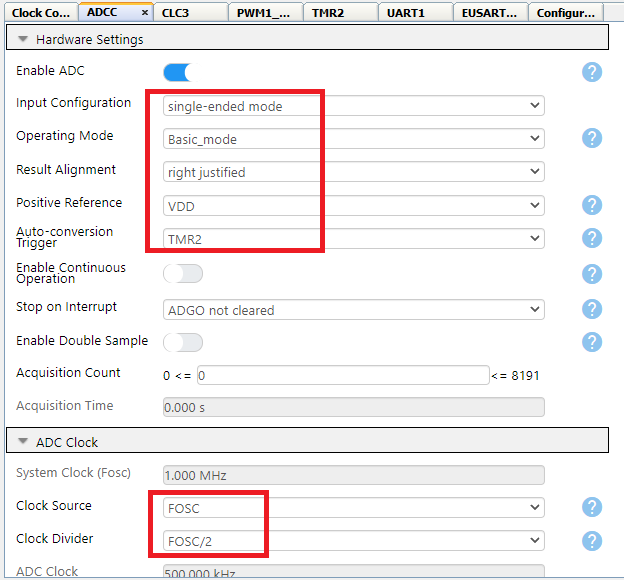
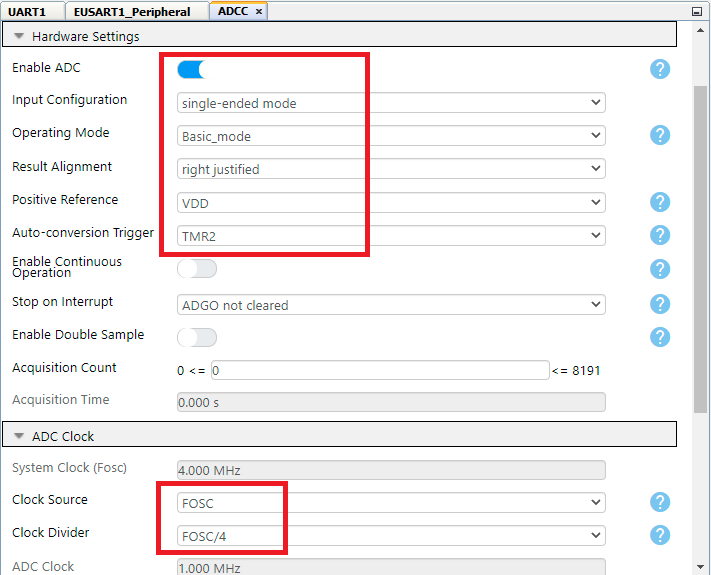
MPAE-14822 : Updated Firmware

Changed region(s): [[0.0, 0.0, 1.0, 1.0]]

diff --git a/pic16f18146-dust-sensor-interface-mplab-mcc.X/mcc_generated_files/timer/tmr2.h b/pic16f18146-dust-sensor-interface-mplab-mcc.X/mcc_generated_files/timer/tmr2.h
@@ -5,7 +5,7 @@
  *  
  * @defgroup tmr2 TMR2
  *
- * @brief This is the generated header file for the TMR2 module.
+ * @brief API Prototypes and other data types for the TMR2 module.
  *
  * @version TMR2 Driver Version 3.0.1
  */
@@ -34,11 +34,6 @@
 
 #ifndef TMR2_H
 #define TMR2_H
-
-/**
- * @brief This file contains API prototypes and other data types for TMR2 module.
- * @{
- */
 
 #include <stdint.h>
 #include <stdbool.h>
@@ -267,8 +262,7 @@ typedef enum
 
 /**
  * @ingroup tmr2
- * @brief This API initializes the TMR2 module.
- *        This routine must be called before any other TMR2 routines.
+ * @brief Initializes the TMR2 module. This routine must be called before any other TMR2 routines.
  * @param none
  * @return none
  */
@@ -277,8 +271,7 @@ typedef enum
 /**
  * @ingroup tmr2
  * @brief Configures the Hardware Limit Timer mode.
- *        Writes the T2HLTbits.MODE bits.
- *        TMR2 should be initialized with Timer2_Initialize after calling this API.
+ * @pre TMR2 should be initialized with Timer2_Initialize after calling this API.
  * @param mode - Value to write into T2HLTbits.MODE bits.
  * @return none
  */
@@ -287,8 +280,7 @@ void Timer2_ModeSet(Timer2_HLT_MODE mode);
 /**
  * @ingroup tmr2
  * @brief Configures the HLT external reset source.
- *        Writes the T2RSTbits.RSEL bits.
- *        TMR2 should be initialized with Timer2_Initialize after calling this API.
+ * @pre TMR2 should be initialized with Timer2_Initialize after calling this API.
  * @param reset - Value to write into T2RSTbits.RSEL bits.
  * @return none
  */
@@ -296,8 +288,8 @@ void Timer2_ExtResetSourceSet(Timer2_HLT_EXT_RESET_SOURCE reset);
 
 /**
  * @ingroup tmr2
- * @brief This function starts TMR2.
- *        TMR2 should be initialized with Timer2_Initialize() before calling this API.
+ * @brief Starts TMR2.
+ * @pre TMR2 should be initialized with Timer2_Initialize() before calling this API.
  * @param none
  * @return none
  */
@@ -305,8 +297,8 @@ void Timer2_Start(void);
 
 /**
  * @ingroup tmr2
- * @brief This function stops TMR2.
- *        TMR2 should be initialized with Timer2_Initialize() before calling this API.
+ * @brief Stops TMR2.
+ * @pre TMR2 should be initialized with Timer2_Initialize() before calling this API.
  * @param none
  * @return none
  */
@@ -314,8 +306,8 @@ void Timer2_Stop(void);
 
 /**
  * @ingroup tmr2
- * @brief This function reads the 8 bits from TMR2 register.
- *        TMR2 should be initialized with Timer2_Initialize() before calling this API.
+ * @brief Reads the 8 bits from TMR2 register.
+ * @pre TMR2 should be initialized with Timer2_Initialize() before calling this API.
  * @param none.
  * @return 8-bit data from TMR2 register.
  */
@@ -323,8 +315,8 @@ uint8_t Timer2_Read(void);
 
 /**
  * @ingroup tmr2
- * @brief This function writes 8-bit value to TMR2 register.
- *        TMR2 should be initialized with Timer2_Initialize() before calling this API.
+ * @brief Writes 8-bit value to TMR2 register.
+ * @pre TMR2 should be initialized with Timer2_Initialize() before calling this API.
  * @param 8-bit value to be written to TMR2 register.
  * @return none
  */
@@ -332,8 +324,8 @@ void Timer2_Write(uint8_t timerVal);
 
 /**
  * @ingroup tmr2
- * @brief This function loads 8 bit value to PR2H register.
- *        TMR2 should be initialized with Timer2_Initialize() before calling this API.
+ * @brief Loads 8-bit value to PR2H register.
+ * @pre TMR2 should be initialized with Timer2_Initialize() before calling this API.
  * @param 8-bit value to be written to PR2 register.
  * @return none
  */
@@ -349,7 +341,7 @@ void Timer2_OverflowCallbackRegister(void (* InterruptHandler)(void));
 
 /**
  * @ingroup tmr2
- * @brief This function performs tasks to be executed on timer overflow event
+ * @brief Performs tasks to be executed on timer overflow event.
  * @param none
  * @return none
  */

diff --git a/pic16f18146-dust-sensor-interface-mplab-mcc.X/main.c b/pic16f18146-dust-sensor-interface-mplab-mcc.X/main.c
@@ -33,7 +33,7 @@
 #include "mcc_generated_files/system/system.h"
 
 /***********************************
- Analog channel: RC2
+ Analog (Dust sensor output) channel: RC2
  CLC3 o/p (TMR2 output): RC6  -- for testing purpose
  PWM1 o/p : RC5
  
@@ -52,10 +52,10 @@
 float ConvertAdcCountToVoltage(uint16_t adcResult);
 float CalculateDustDensity(float voltage); 
 
-static float voltageNoDust = 0.6F; // Typical output voltage at no dust in volt. 
+static float voltageNoDust = 0.6F; //typical output voltage at no dust in volt. 
 
 //sensitivity needs to be adjusted as per calibration for accurate result
-static const float sensitivity = 0.5F; // Typical sensitivity of dust sensor in volt per 100ug/m3
+static const float sensitivity = 0.5F; //typical sensitivity of dust sensor in volt per 100ug/m3
 
 int main(void)
 {
@@ -81,7 +81,7 @@ int main(void)
     // Disable the Peripheral Interrupts 
     //INTERRUPT_PeripheralInterruptDisable(); 
     
-    printf("\n\t\t**** Dust (PM) Sensor Interface using PIC16F17146 ****\n\n\r");
+    printf("\n\t\t**** Dust (PM) Sensor Interface using PIC16F18146 ****\n\n\r");
     
     //select Dust Sensor as ADC channel
     ADPCH = DustSensor_Vo; 
@@ -111,7 +111,7 @@ float ConvertAdcCountToVoltage(uint16_t adcResult)
 {
     float voltage = 0;
     
-    // Compute the output voltage in Volts.
+    //compute the output voltage in Volts.
     voltage = (float)(adcResult * ADC_REFERENCE_VOLATGE);     
     voltage = voltage / ADC_HIGHEST_COUNT;
     

diff --git a/pic16f18146-dust-sensor-interface-mplab-mcc.X/mcc_generated_files/system/pins.h b/pic16f18146-dust-sensor-interface-mplab-mcc.X/mcc_generated_files/system/pins.h
@@ -49,26 +49,6 @@
 #define PULL_UP_ENABLED      1
 #define PULL_UP_DISABLED     0
 
-// get/set IO_RA5 aliases
-#define IO_RA5_TRIS                 TRISAbits.TRISA5
-#define IO_RA5_LAT                  LATAbits.LATA5
-#define IO_RA5_PORT                 PORTAbits.RA5
-#define IO_RA5_WPU                  WPUAbits.WPUA5
-#define IO_RA5_OD                   ODCONAbits.ODCA5
-#define IO_RA5_ANS                  ANSELAbits.ANSA5
-#define IO_RA5_SetHigh()            do { LATAbits.LATA5 = 1; } while(0)
-#define IO_RA5_SetLow()             do { LATAbits.LATA5 = 0; } while(0)
-#define IO_RA5_Toggle()             do { LATAbits.LATA5 = ~LATAbits.LATA5; } while(0)
-#define IO_RA5_GetValue()           PORTAbits.RA5
-#define IO_RA5_SetDigitalInput()    do { TRISAbits.TRISA5 = 1; } while(0)
-#define IO_RA5_SetDigitalOutput()   do { TRISAbits.TRISA5 = 0; } while(0)
-#define IO_RA5_SetPullup()          do { WPUAbits.WPUA5 = 1; } while(0)
-#define IO_RA5_ResetPullup()        do { WPUAbits.WPUA5 = 0; } while(0)
-#define IO_RA5_SetPushPull()        do { ODCONAbits.ODCA5 = 0; } while(0)
-#define IO_RA5_SetOpenDrain()       do { ODCONAbits.ODCA5 = 1; } while(0)
-#define IO_RA5_SetAnalogMode()      do { ANSELAbits.ANSA5 = 1; } while(0)
-#define IO_RA5_SetDigitalMode()     do { ANSELAbits.ANSA5 = 0; } while(0)
-
 // get/set IO_RB5 aliases
 #define IO_RB5_TRIS                 TRISBbits.TRISB5
 #define IO_RB5_LAT                  LATBbits.LATB5

diff --git a/pic16f18146-dust-sensor-interface-mplab-mcc.X/mcc_generated_files/system/src/config_bits.c b/pic16f18146-dust-sensor-interface-mplab-mcc.X/mcc_generated_files/system/src/config_bits.c
@@ -33,8 +33,8 @@
 
 // Configuration bits: selected in the GUI
 //CONFIG1
-#pragma config FEXTOSC = ECH    // External Oscillator Selection bits->EC (external clock) above 16 MHz
-#pragma config RSTOSC = EXTOSC    // Reset Oscillator Selection bits->EXTOSC operating per FEXTOSC bits
+#pragma config FEXTOSC = OFF    // External Oscillator Selection bits->Oscillator not enabled
+#pragma config RSTOSC = HFINTOSC_1MHz    // Reset Oscillator Selection bits->HFINTOSC (1MHz)
 #pragma config CLKOUTEN = OFF    // Clock Out Enable bit->CLKOUT function is disabled; i/o or oscillator function on OSC2
 #pragma config CSWEN = ON    // Clock Switch Enable bit->Writing to NOSC and NDIV is allowed
 #pragma config VDDAR = HI    // VDD Range Analog Calibration Selection bit->Internal analog systems are calibrated for operation between VDD = 2.3 - 5.5V

diff --git a/pic16f18146-dust-sensor-interface-mplab-mcc.X/mcc_generated_files/system/src/pins.c b/pic16f18146-dust-sensor-interface-mplab-mcc.X/mcc_generated_files/system/src/pins.c
@@ -54,7 +54,7 @@ void PIN_MANAGER_Initialize(void)
     /**
     ANSELx registers
     */
-    ANSELA = 0x17;
+    ANSELA = 0x37;
     ANSELB = 0x50;
     ANSELC = 0xDF;
 
@@ -93,12 +93,6 @@ void PIN_MANAGER_Initialize(void)
     /**
     PPS registers
     */
-    CLCIN0PPS = 0x5; //RA5->CLC3:CLCIN0;
-    PWM1ERSPPS = 0x5; //RA5->PWM1_16BIT:PWM1ERS;
-    PWMIN0PPS = 0x5; //RA5->PWM1_16BIT:PWMIN0;
-    PWMIN1PPS = 0x5; //RA5->PWM1_16BIT:PWMIN1;
-    ADACTPPS = 0x5; //RA5->ADCC:ADACT;
-    T2INPPS = 0x5; //RA5->TMR2:T2IN;
     RX1PPS = 0xD; //RB5->EUSART1:RX1;
     RC6PPS = 0x03;  //RC6->CLC3:CLC3OUT;
     RC5PPS = 0x0B;  //RC5->PWM1_16BIT:PWM11;

diff --git a/pic16f18146-dust-sensor-interface-mplab-mcc.X/mcc_generated_files/system/src/clock.c b/pic16f18146-dust-sensor-interface-mplab-mcc.X/mcc_generated_files/system/src/clock.c
@@ -37,8 +37,8 @@
 void CLOCK_Initialize(void)
 {
     // Set the CLOCK CONTROL module to the options selected in the user interface.
-    // NDIV 4; NOSC HFINTOSC; 
-    OSCCON1 = 0x62;
+    // NDIV 1; NOSC HFINTOSC; 
+    OSCCON1 = 0x60;
     // SOSCPWR High power; CSWHOLD may proceed; 
     OSCCON3 = 0x40;
     // EXTOEN disabled; HFOEN disabled; MFOEN disabled; LFOEN disabled; SOSCEN disabled; ADOEN disabled; 

diff --git a/pic16f18146-dust-sensor-interface-mplab-mcc.X/mcc_generated_files/timer/timer_interface.h b/pic16f18146-dust-sensor-interface-mplab-mcc.X/mcc_generated_files/timer/timer_interface.h
@@ -1,5 +1,5 @@
 /** 
- * TMR2 Generated Driver API Header File
+ * TMR Generated Driver API Header File
  *
  * @file timer_interface.h
  *  
@@ -38,8 +38,8 @@
  * @brief This file contains API prototypes and other data types for Timer interface.
  * @{
  */
-
-#include<stddef.h>
+ 
+ #include<stddef.h>
         
 /**
  @ingroup timer_interface

diff --git a/pic16f18146-dust-sensor-interface-mplab-mcc.X/mcc_generated_files/uart/src/eusart1.c b/pic16f18146-dust-sensor-interface-mplab-mcc.X/mcc_generated_files/uart/src/eusart1.c
@@ -100,8 +100,8 @@ void EUSART1_Initialize(void)
     RC1STA = 0x90; 
     //TX9D 0x0; BRGH hi_speed; SENDB sync_break_complete; SYNC asynchronous; TXEN enabled; TX9 8-bit; CSRC client; 
     TX1STA = 0x26; 
-    //SPBRGL 25; 
-    SP1BRGL = 0x19; 
+    //SPBRGL 103; 
+    SP1BRGL = 0x67; 
     //SPBRGH 0; 
     SP1BRGH = 0x0; 
 

diff --git a/pic16f18146-dust-sensor-interface-mplab-mcc.X/mcc_generated_files/adcc/src/adcc.c b/pic16f18146-dust-sensor-interface-mplab-mcc.X/mcc_generated_files/adcc/src/adcc.c
@@ -93,8 +93,8 @@ void ADCC_Initialize(void)
     ADREF = 0x0;
     //ADACT TMR2; 
     ADACT = 0x4;
-    //ADCCS FOSC/2; 
-    ADCLK = 0x0;
+    //ADCCS FOSC/4; 
+    ADCLK = 0x1;
     //GO_nDONE undefined; ADIC single-ended mode; ADFM right justified; ADCS FOSC; ADCONT disabled; ADON enabled; 
     ADCON0 = 0x84;
     

diff --git a/pic16f18146-dust-sensor-interface-mplab-mcc.X/mcc_generated_files/timer/src/tmr2.c b/pic16f18146-dust-sensor-interface-mplab-mcc.X/mcc_generated_files/timer/src/tmr2.c
@@ -5,7 +5,7 @@
  * 
  * @ingroup  tmr2
  * 
- * @brief This is the generated driver implementation file for the TMR2 module.
+ * @brief API implementations for the TMR2 module.
  *
  * @version TMR2 Driver Version 3.0.1
  */

diff --git a/pic16f18146-dust-sensor-interface-mplab-mcc.X/mcc_generated_files/pwm/src/pwm1_16bit.c b/pic16f18146-dust-sensor-interface-mplab-mcc.X/mcc_generated_files/pwm/src/pwm1_16bit.c
@@ -7,7 +7,7 @@
   *
   * @brief This file contains the driver code for PWM1_16BIT module.
   *
-  * version PWM1_16BIT Driver Version <!--Use existing driver version-->
+  * version PWM1_16BIT Driver Version 1.0.1
 */
 
 /*

diff --git a/pic16f18146-dust-sensor-interface-mplab-mcc.X/mcc_generated_files/pwm/pwm1_16bit.h b/pic16f18146-dust-sensor-interface-mplab-mcc.X/mcc_generated_files/pwm/pwm1_16bit.h
@@ -7,7 +7,7 @@
  *
  * @brief This header file provides APIs for the PWM1_16BIT driver.
  *
- * @version PWM1_16BIT Driver Version <!--Use existing driver version-->
+ * @version PWM1_16BIT Driver Version 1.0.1
 */
 
 /*
